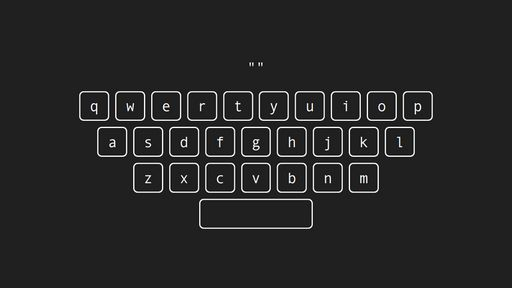
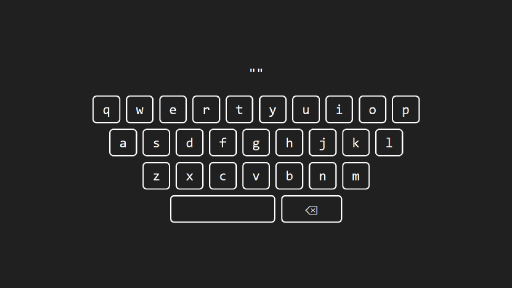
[update] mincode: keyboard

Changed region(s): [[0.1562, 0.3125, 0.8438, 0.8125], [0.4688, 0.2188, 0.5312, 0.25]]

diff --git a/mincode/projects/keyboard/script.js b/mincode/projects/keyboard/script.js
@@ -2,47 +2,70 @@ const keyboard = [
   ["q", "w", "e", "r", "t", "y", "u", "i", "o", "p"],
   ["a", "s", "d", "f", "g", "h", "j", "k", "l"],
   ["z", "x", "c", "v", "b", "n", "m"],
-  [" "],
+  [" ", "Backspace"],
 ]
-const keyboardBox = $(".keyboard")
-const outputBox = $(".output")
+const keyboardBox = $("#keyboard")
+const outputBox = $("#output")
 const outputText = []
+let keysBoxes
 
 function printKeyboard() {
   keyboard.forEach((row) => {
     keyboardBox.append(`<div class="row" style="--length-row: ${row.length};">
       ${row
-        .map(
-          (key) =>
-            `<div class="${
-              key == " " ? "key key--s" : "key"
-            }" data-key="${key}">${key}</div>`
-        )
+        .map((key) => {
+          const k = key === "Backspace" ? "⌫" : key
+          return `<div class="${
+            key === " "
+              ? "key key--s"
+              : key === "Backspace"
+              ? "key key--b"
+              : "key"
+          }" data-key="${k}">${k}</div>`
+        })
         .join("")}
     </div>`)
   })
+
+  keysBoxes = $(".key")
 }
 
 printKeyboard()
 
 $(document).on("keydown", function (event) {
-  const key = event.key
-  //console.log(event.keyCode)
-  const keyBox = $('[data-key="' + key + '"]')
-
-  keyBox.toggleClass("key--pressed")
+  const key = event.key === "Backspace" ? "⌫" : event.key
+  const keyBox = $(`[data-key="${key}"]`)
+  keyBox.addClass("key--pressed")
   write(event)
-  setTimeout(() => keyBox.toggleClass("key--pressed"), 100)
+  setTimeout(() => keyBox.removeClass("key--pressed"), 100)
 })
 
-function write(e) {
-  const letter = e.key
-  if (e.keyCode >= 65 && e.keyCode <= 90) {
-    outputText.push(letter)
-  } else if (e.keyCode == 32) {
-    outputText.push(" ")
-  } else if (e.keyCode == 8) {
-    outputText.pop()
+keysBoxes.on("click", function (event) {
+  const key = event.target.dataset.key
+  const keyBox = $(`[data-key="${key}"]`)
+  keyBox.addClass("key--pressed")
+  write(key, true)
+  setTimeout(() => keyBox.removeClass("key--pressed"), 100)
+})
+
+function write(e, isLetter = false) {
+  if (isLetter) {
+    if (e === " ") {
+      outputText.push(" ")
+    } else if (e === "⌫") {
+      outputText.pop()
+    } else {
+      outputText.push(e)
+    }
+  } else {
+    const letter = e.key
+    if (e.keyCode >= 65 && e.keyCode <= 90) {
+      outputText.push(letter)
+    } else if (e.keyCode === 32) {
+      outputText.push(" ")
+    } else if (e.keyCode === 8) {
+      outputText.pop()
+    }
   }
-  outputBox.empty().append(outputText.join(""))
+  outputBox.html(outputText.join("").replaceAll(" ", "&nbsp;"))
 }

diff --git a/mincode/projects/keyboard/styles.css b/mincode/projects/keyboard/styles.css
@@ -12,43 +12,7 @@
 
 html {
   box-sizing: border-box;
-}
-
-h1,
-h2,
-h3,
-h4,
-h5,
-h6 {
-  text-wrap: balance;
-}
-
-p,
-span {
-  text-wrap: pretty;
-}
-
-a {
-  color: initial;
-  text-decoration: none;
-}
-
-ul {
-  list-style: none;
-}
-
-input,
-textarea,
-button {
-  appearance: none;
-  border: none;
-  background: none;
-}
-
-input:focus-visible,
-textarea:focus-visible,
-button:focus-visible {
-  outline: none;
+  user-select: none;
 }
 
 /*
@@ -57,8 +21,12 @@ button:focus-visible {
  * ===================================================================
  */
 
+:root {
+  -webkit-tap-highlight-color: transparent;
+}
+
 html {
-  font-size: 2.6vmin;
+  font-size: 2vmin;
   font-family: monospace;
   text-transform: lowercase;
   color: white;
@@ -73,18 +41,18 @@ body {
   align-items: center;
 }
 
-.output {
+#output {
   width: 100%;
   margin-bottom: 2rem;
   text-align: center;
   font-size: 2rem;
 }
-.output::before,
-.output::after {
+#output::before,
+#output::after {
   content: '"';
 }
 
-.keyboard {
+#keyboard {
   display: grid;
   justify-items: center;
   row-gap: 0.8rem;
@@ -107,10 +75,15 @@ body {
   align-items: center;
   color: white;
   font-size: 2rem;
+  cursor: pointer;
 }
 
 .key--s {
   width: calc((4rem * 3) + (0.8rem * 4));
+}
+
+.key--b {
+  width: calc((4rem * 2) + (0.8rem * 1));
 }
 
 .key--pressed {

diff --git a/mincode/projects/keyboard/index.html b/mincode/projects/keyboard/index.html
@@ -27,8 +27,8 @@
     onselectstart="return false"
     ondragstart="return false">
     <div class="container">
-      <div class="output"></div>
-      <div class="keyboard"></div>
+      <div id="output"></div>
+      <div id="keyboard"></div>
     </div>
     <script src="./script.js"></script>
   </body>
